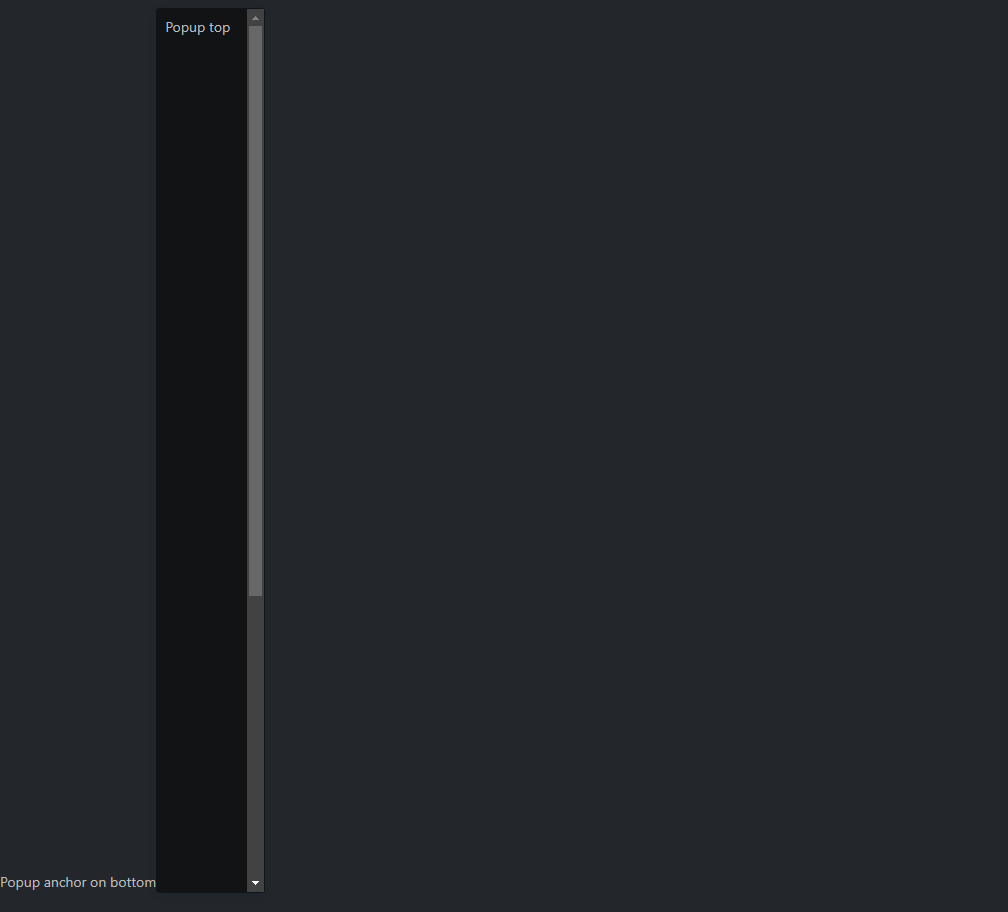
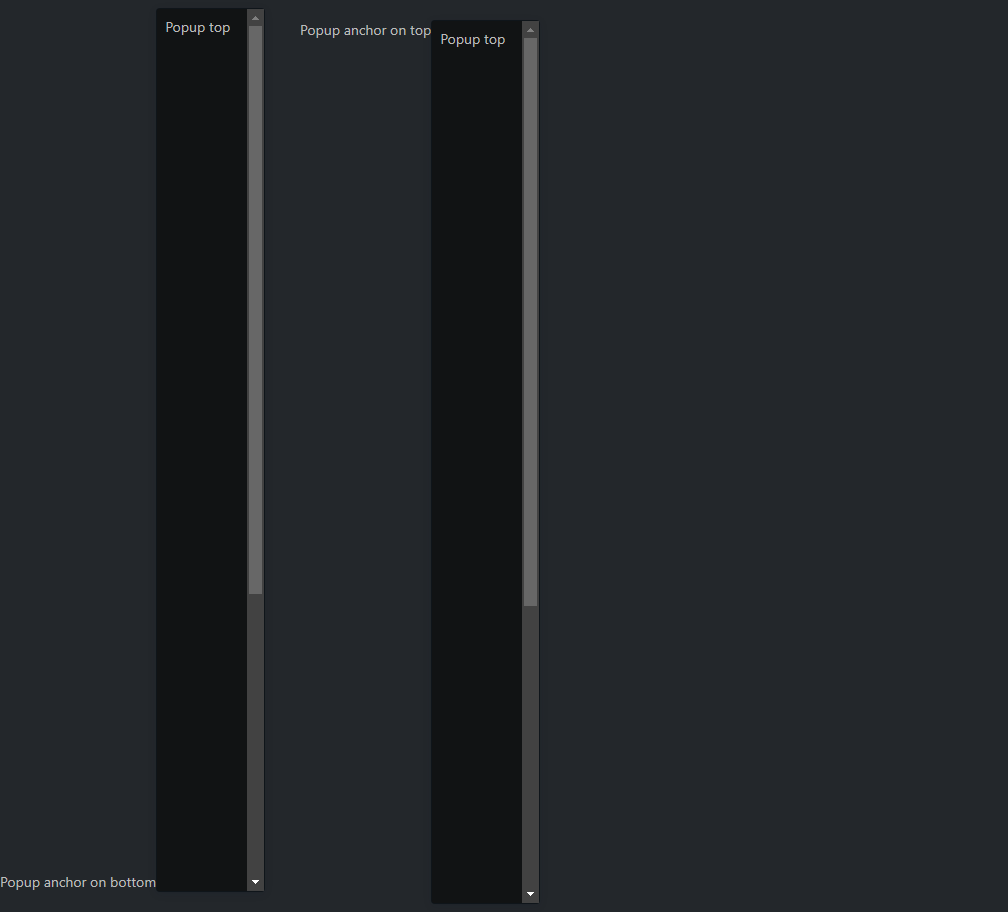
RG-2243 fixup: when container is a documentElement, calcualte limits for viewPort, not a container

Changed region(s): [[0.3075, 0.0307, 0.5536, 1.0]]

diff --git a/src/popup/position.test.ts b/src/popup/position.test.ts
@@ -13,33 +13,25 @@ interface NodeData {
 describe('position', () => {
   describe('maxHeightForDirection', () => {
     it('should return max height for specified direction relative to container', () => {
-      const containerNode = createNode({},
-        createClientRectMock({
-          top: 10,
-          left: 10,
-          width: 30,
-          height: 40
-        })
-      );
+      sandbox.stub(window, 'innerHeight').value(40);
 
       const topMaxHeight = 20;
       const bottomMaxHeight = 10;
 
       const anchorNode = createNode({},
         createClientRectMock({
-          top: containerNode.getBoundingClientRect().top + topMaxHeight,
-          left: containerNode.getBoundingClientRect().left + 10,
+          top: topMaxHeight,
+          left: 0,
           width: 10,
           height: 10
         })
       );
 
-      checkMaxHeight(anchorNode, containerNode, [
+      checkMaxHeight(anchorNode, undefined, [
         topMaxHeight,
         bottomMaxHeight
       ]);
     });
-
 
     it('should NOT include scroll height when calculate max height', () => {
       const containerNode = createNode(
@@ -73,28 +65,23 @@ describe('position', () => {
     });
 
 
-    it('should handle case when both element out of the top border of viewport', () => {
-      const containerNode = createNode({},
-        createClientRectMock({
-          top: -50,
-          left: 10,
-          width: 30,
-          height: 30
-        })
-      );
+    it('should handle case when anchor is out of viewport', () => {
+      const WINDOW_HEIGHT = 200;
+      const ANCHOR_TOP = -50;
+      sandbox.stub(window, 'innerHeight').value(200);
 
       const anchorNode = createNode({},
         createClientRectMock({
-          top: containerNode.getBoundingClientRect().top + 10,
-          left: containerNode.getBoundingClientRect().left + 10,
+          top: ANCHOR_TOP,
+          left: 0,
           width: 10,
           height: 10
         })
       );
 
-      const topMaxHeight = 10;
-      const bottomMaxHeight = 10;
-      checkMaxHeight(anchorNode, containerNode, [
+      const topMaxHeight = 8;
+      const bottomMaxHeight = WINDOW_HEIGHT - ANCHOR_TOP - 10;
+      checkMaxHeight(anchorNode, undefined, [
         topMaxHeight,
         bottomMaxHeight
       ]);
@@ -112,7 +99,7 @@ describe('position', () => {
 
   function checkMaxHeight(
     anchorNode: Element,
-    containerNode: Element,
+    containerNode: Element | undefined,
     [topMaxHeight, bottomMaxHeight]: [number, number]
   ) {
     const expectedValues = [

diff --git a/src/popup/position.ts b/src/popup/position.ts
@@ -150,19 +150,30 @@ const defaultcontainerRect = {
 export function maxHeightForDirection(
   direction: Directions,
   anchorNode: Element,
-  containerNode?: Element | null
+  container: Element = document.documentElement
 ): number {
-  const container = containerNode || document.documentElement;
+  const MIN_POPUP_SIZE = 8;
   const domRect = anchorNode.getBoundingClientRect();
-  const containerRect = container.getBoundingClientRect();
-  const topMaxHeight = Math.max(domRect.top - containerRect.top, 0);
-  const containerHeight = Math.max(containerRect.height,
-    // XXX
-    // If container is the document element
-    // then we check client height too because we may have situation when
-    // "height" from "getBoundingClientRect" less than "clientHeight".
-    container === document.documentElement ? container.clientHeight : 0);
-  const bottomMaxHeight = Math.max(containerHeight - (topMaxHeight + domRect.height), 0);
+
+  let topMaxHeight;
+  let bottomMaxHeight;
+
+  if (container === document.documentElement) {
+    topMaxHeight = Math.max(domRect.top, MIN_POPUP_SIZE);
+    bottomMaxHeight = Math.max(getWindowHeight() - domRect.top - domRect.height, MIN_POPUP_SIZE);
+  } else {
+    const containerRect = container.getBoundingClientRect();
+    topMaxHeight = Math.max(domRect.top - containerRect.top, 0);
+    const containerHeight = Math.max(containerRect.height,
+      // XXX
+      // If container is the document element
+      // then we check client height too because we may have situation when
+      // "height" from "getBoundingClientRect" less than "clientHeight".
+      container === document.documentElement ? container.clientHeight : 0);
+    bottomMaxHeight = Math.max(containerHeight - (topMaxHeight + domRect.height), 0);
+  }
+
+
   switch (direction) {
     case Directions.TOP_LEFT:
     case Directions.TOP_CENTER:
@@ -256,9 +267,13 @@ export default function position(attrs: PositionAttrs) {
   }
 
   if (autoCorrectTopOverflow && chosenDirection && anchor) {
-    styles.maxHeight = maxHeightForDirection(chosenDirection, anchor, container) - sidePadding;
-    if (styles.top === 0) {
-      styles.top = sidePadding;
+    const maxForDirection = maxHeightForDirection(chosenDirection, anchor) - sidePadding;
+
+    if (!styles.maxHeight || styles.maxHeight > maxForDirection) {
+      styles.maxHeight = maxForDirection;
+      if (styles.top === 0) {
+        styles.top = sidePadding;
+      }
     }
   }
 

diff --git a/src/select/select__popup.tsx b/src/select/select__popup.tsx
@@ -503,7 +503,7 @@ export default class SelectPopup<T = unknown> extends PureComponent<SelectPopupP
           Math.max(maxHeight, maxHeightForDirection(
             direction,
             anchorNode,
-            getStyles(containerNode).position !== 'static' ? containerNode : null
+            getStyles(containerNode).position !== 'static' ? containerNode : undefined
           ) ?? 0)
         ), minMaxHeight),
         userDefinedMaxHeight
